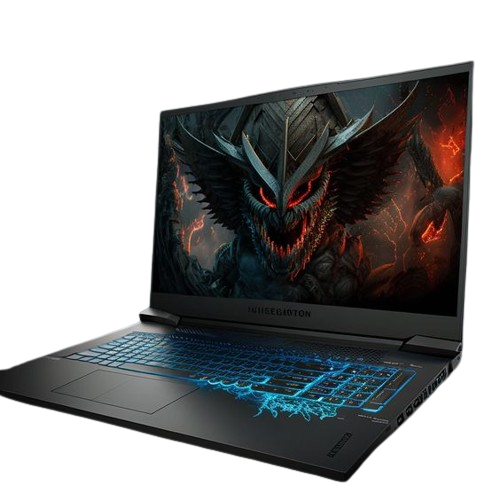
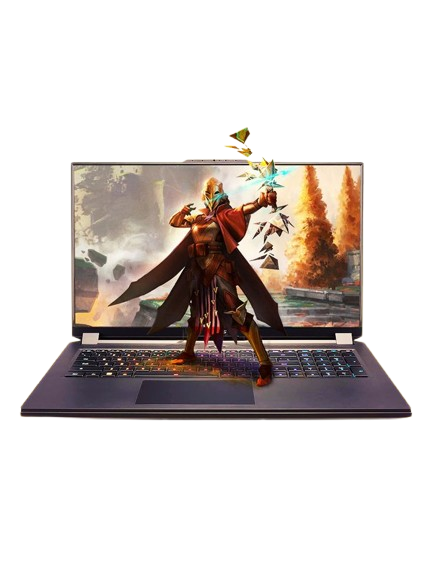
Fix HomePage

diff --git a/src/pages/Home/Banner.js b/src/pages/Home/Banner.js
@@ -1,8 +1,9 @@
 import React from "react";
 import BannerImg from "../../assets/hero/blackfriday.png";
-import { GrSecure } from "react-icons/gr";
-import { IoFastFood } from "react-icons/io5";
-import { GiFoodTruck } from "react-icons/gi";
+import { HiOutlineSpeakerphone } from "react-icons/hi";
+import { VscLaw } from "react-icons/vsc";
+import { RiSecurePaymentLine } from "react-icons/ri";
+import { HiOutlineTag } from "react-icons/hi";
 
 const Banner = () => {
   return (
@@ -31,19 +32,19 @@ const Banner = () => {
             </p>
             <div className="flex flex-col gap-4">
               <div data-aos="fade-up" className="flex items-center gap-4">
-                <GrSecure className="text-4xl h-12 w-12 shadow-sm p-4 rounded-full bg-violet-100 dark:bg-violet-400" />
+                <HiOutlineSpeakerphone className="text-4xl h-12 w-12 shadow-sm p-4 rounded-full bg-violet-100 dark:bg-violet-400" />
                 <p>Những sản phẩm chất lượng</p>
               </div>
               <div data-aos="fade-up" className="flex items-center gap-4">
-                <IoFastFood className="text-4xl h-12 w-12 shadow-sm p-4 rounded-full bg-orange-100 dark:bg-orange-400" />
-                <p>Giao hàng nhanh</p>
+                <VscLaw className="text-4xl h-12 w-12 shadow-sm p-4 rounded-full bg-orange-100 dark:bg-orange-400" />
+                <p>Giá cả cạnh tranh</p>
               </div>
               <div data-aos="fade-up" className="flex items-center gap-4">
-                <GiFoodTruck className="text-4xl h-12 w-12 shadow-sm p-4 rounded-full bg-green-100 dark:bg-green-400" />
+                <RiSecurePaymentLine className="text-4xl h-12 w-12 shadow-sm p-4 rounded-full bg-green-100 dark:bg-green-400" />
                 <p>Phương thức thanh toán đơn giản</p>
               </div>
               <div data-aos="fade-up" className="flex items-center gap-4">
-                <GiFoodTruck className="text-4xl h-12 w-12 shadow-sm p-4 rounded-full bg-yellow-100 dark:bg-yellow-400" />
+                <HiOutlineTag className="text-4xl h-12 w-12 shadow-sm p-4 rounded-full bg-yellow-100 dark:bg-yellow-400" />
                 <p>Nhận nhiều ưu đãi</p>
               </div>
             </div>

diff --git a/src/pages/Home/Testimonials.js b/src/pages/Home/Testimonials.js
@@ -11,13 +11,13 @@ const TestimonialData = [
   {
     id: 2,
     name: "Phạm Ngọc Lan",
-    text: "Tôi rất ấn tượng với sự đa dạng sản phẩm trên trang này. Mọi thứ từ laptop đến phụ kiện đều có mức giá tốt và chất lượng đảm bảo.",
+    text: "Tôi rất ấn tượng với sự đa dạng sản phẩm trên trang này. Mọi thứ từ laptop đến tai nghe đều có mức giá tốt và chất lượng đảm bảo.",
     img: "https://picsum.photos/102/102",
   },
   {
     id: 3,
     name: "Đỗ Minh Khoa",
-    text: "Tech-Gadgets thực sự là nơi lý tưởng để tìm kiếm các sản phẩm công nghệ mới nhất với giá cạnh tranh.",
+    text: "Tech-Gadgets thực sự là nơi lý tưởng để tìm kiếm các sản phẩm công nghệ mới nhất với mức giá cạnh tranh.",
     img: "https://picsum.photos/104/104",
   },
   {
@@ -77,7 +77,7 @@ const Testimonials = () => {
             Đánh giá từ khách hàng
           </p>
           <h1 data-aos="fade-up" className="text-3xl font-bold">
-            Những phản hồi của khách hàng về sản phẩm, dịch vụ
+            Những phản hồi của khách hàng
           </h1>
           <p data-aos="fade-up" className="text-xs text-gray-400">
           Mua sắm dễ dàng, trải nghiệm tuyệt vời - Tech Gadgets luôn đồng hành cùng bạn

diff --git a/src/pages/Home/TopProducts.js b/src/pages/Home/TopProducts.js
@@ -15,9 +15,9 @@ const ProductsData = [
   {
     id: 2,
     img: Img2,
-    title: "Màn hình 4K",
+    title: "Loa Bluetooth",
     description:
-      "Trải nghiệm hình ảnh tuyệt đẹp với màn hình 4K UHD hàng đầu của chúng tôi, hoàn hảo cho chơi game và sử dụng chuyên nghiệp.",
+      "Đắm chìm trong âm thanh sống động với loa Bluetooth cao cấp. Thiết kế hiện đại, âm thanh chất lượng vượt trội – lựa chọn hoàn hảo cho mọi không gian.",
   },
   {
     id: 3,
@@ -64,6 +64,7 @@ const TopProducts = ({ handleOrderPopup }) => {
               <div className="p-4 text-center">
                 {/* star rating */}
                 <div className="w-full flex items-center justify-center gap-1">
+                  <FaStar className="text-yellow-500" />
                   <FaStar className="text-yellow-500" />
                   <FaStar className="text-yellow-500" />
                   <FaStar className="text-yellow-500" />

diff --git a/src/pages/Seller/SellerProfile.js b/src/pages/Seller/SellerProfile.js
@@ -14,7 +14,7 @@ import {
     FileTextOutlined,
     TagsOutlined
 } from '@ant-design/icons';
-import { ArrowBack, ArrowLeft } from '@mui/icons-material';
+import { ArrowBack } from '@mui/icons-material';
 import { useNavigate } from 'react-router-dom';
 
 const labels = {
@@ -117,8 +117,7 @@ const SellerProfilePage = () => {
     return (
         <div className="flex justify-center items-center min-h-screen bg-gradient-to-r from-primary/40 to-secondary/40">
             <ToastContainer />
-            <div className="bg-white p-8 rounded-lg shadow-lg w-full max-w-4xl">
-                
+            <div className="bg-white p-8 rounded-lg shadow-lg w-full max-w-4xl">              
             <div>
                 <button
                    onClick={() => navigate('/seller/Order-management')}

diff --git a/src/pages/Home/HeroSection.js b/src/pages/Home/HeroSection.js
@@ -1,6 +1,6 @@
 import React, { useEffect, useState } from "react";
 import Image1 from "../../assets/hero/phone.png";
-import Image2 from "../../assets/hero/laptop2.png";
+import Image2 from "../../assets/hero/laptop.png";
 import Image3 from "../../assets/hero/headphone.png";
 import Slider from "react-slick";
 import { Link, useNavigate } from "react-router-dom";

diff --git a/src/pages/Home/index.js b/src/pages/Home/index.js
@@ -52,7 +52,6 @@ const{isAuthenticated}=useAuth();
       <Banner />
       {isAuthenticated && <SuggestGadgetCurrent />}
       {isAuthenticated && <GadgetHistory />}
-      <Subscribe />
       <Testimonials />
 
       <Footer />
